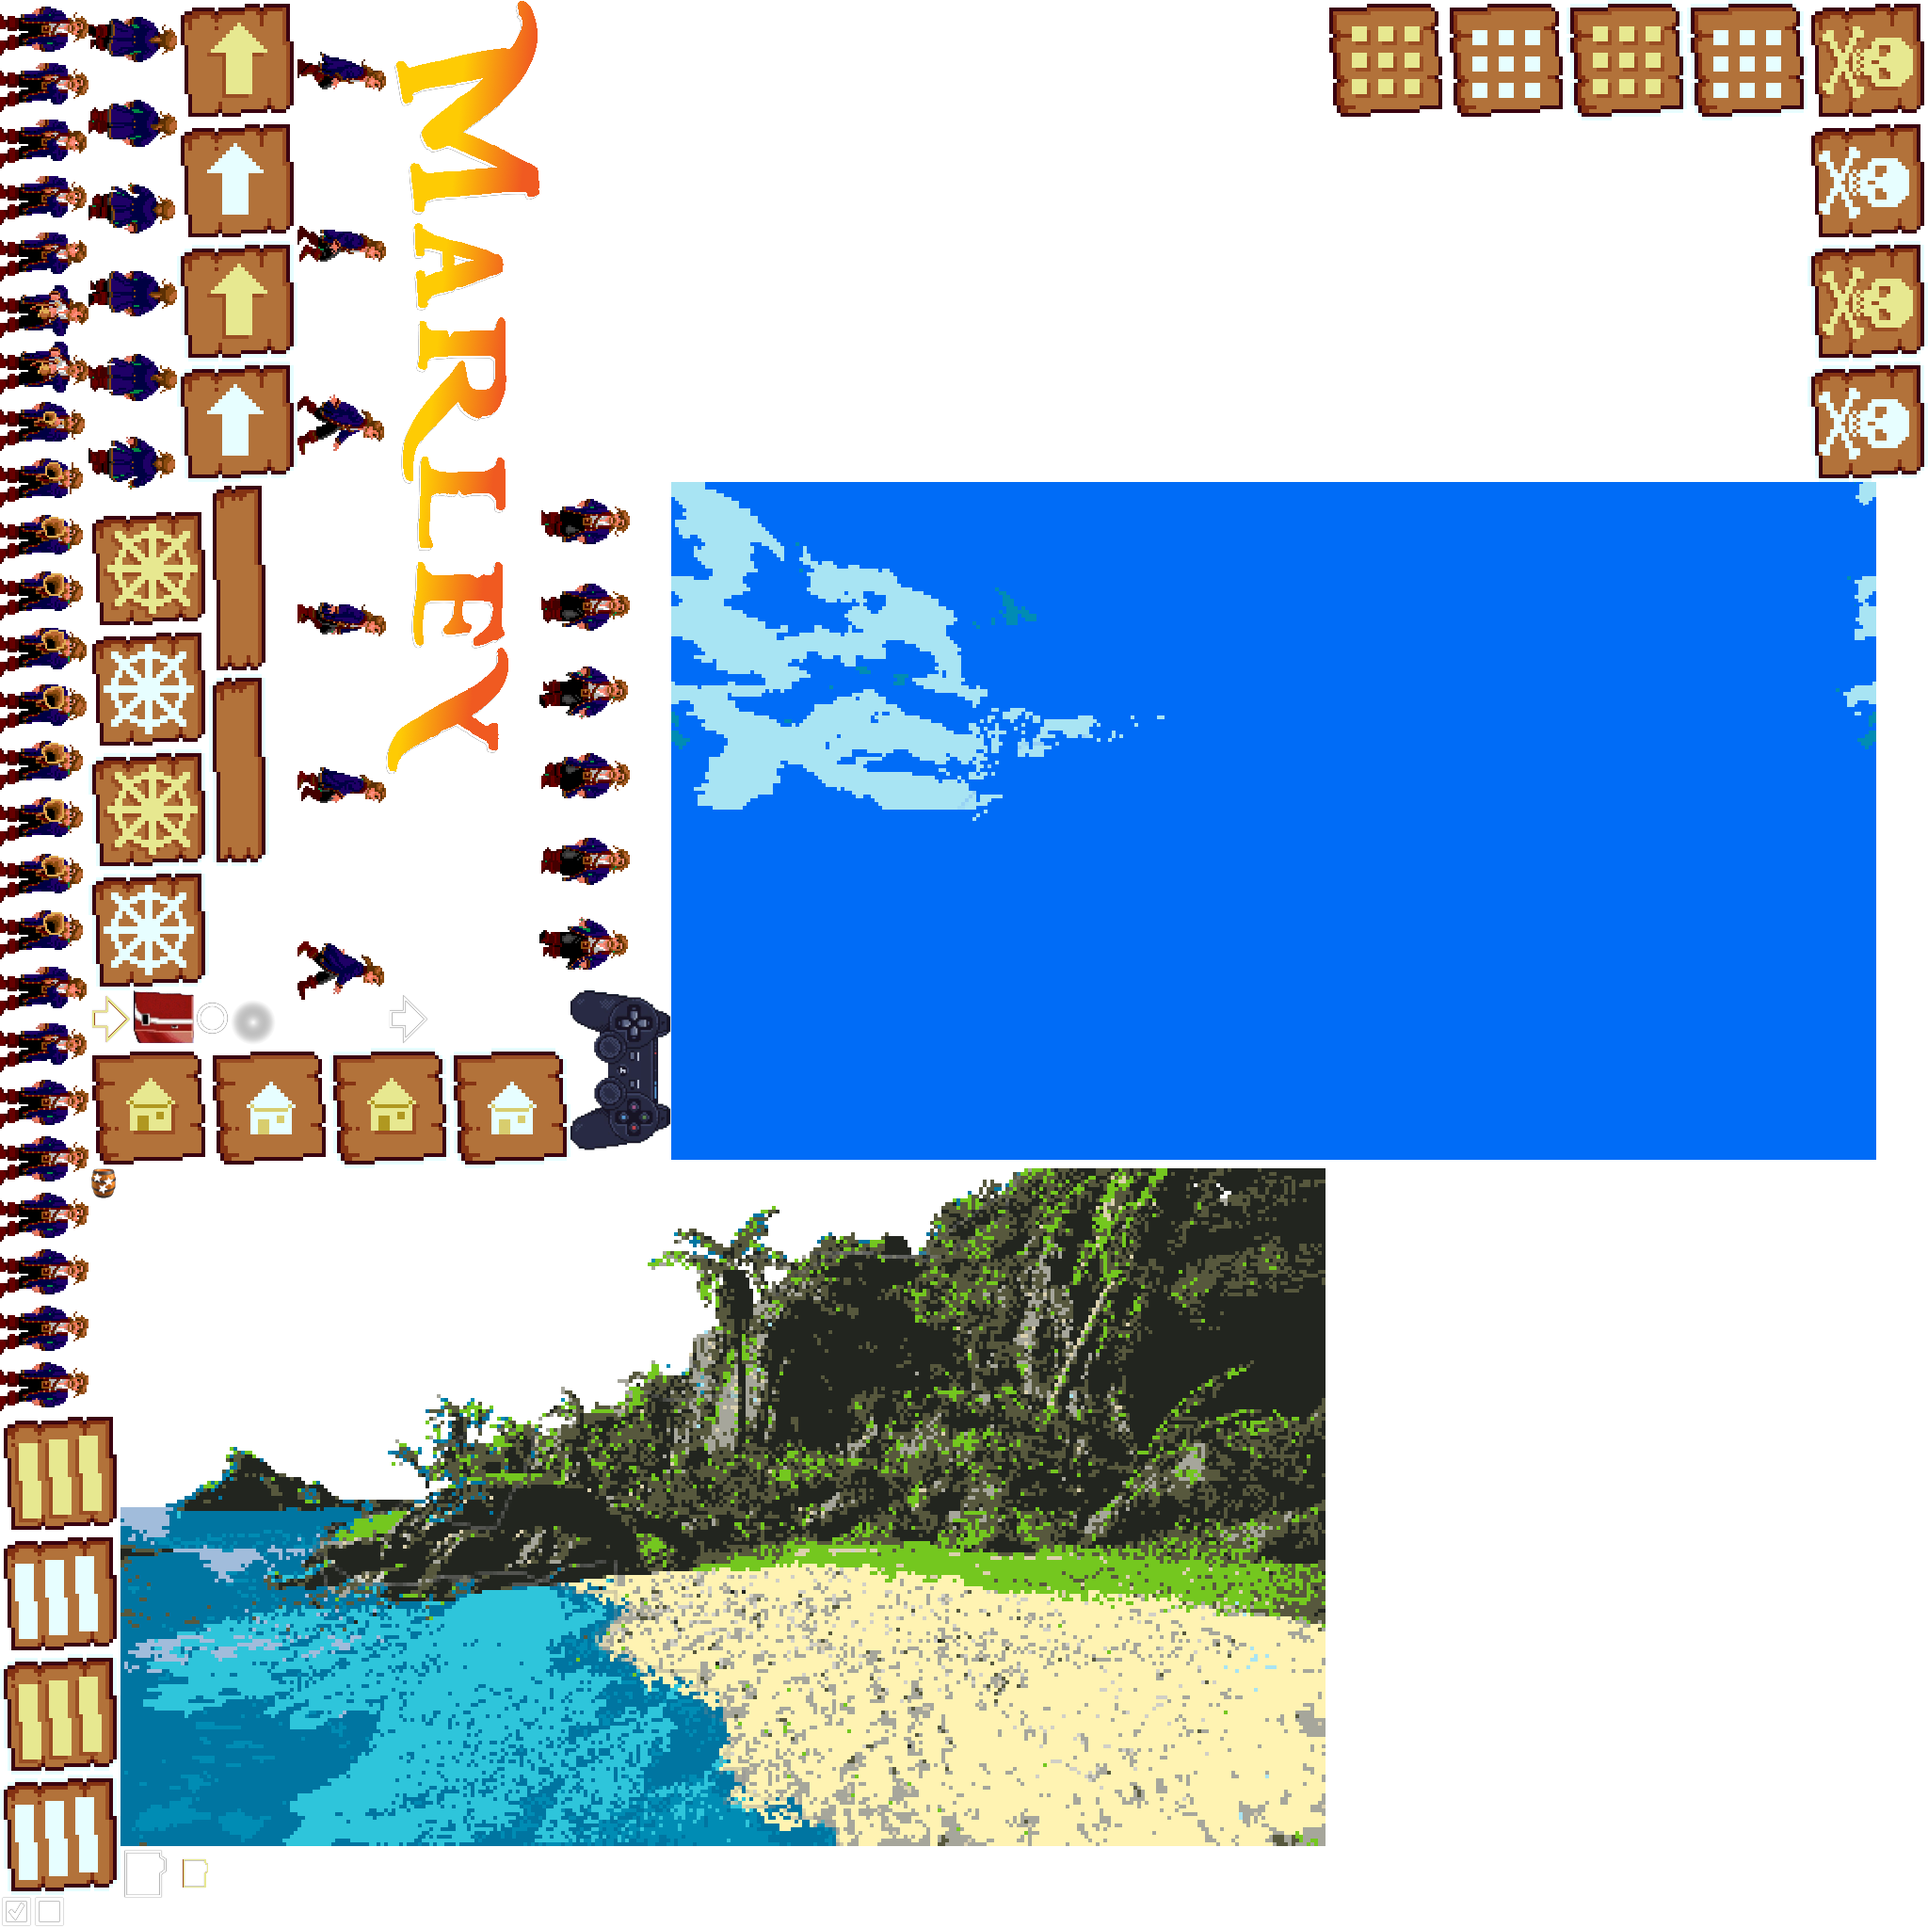
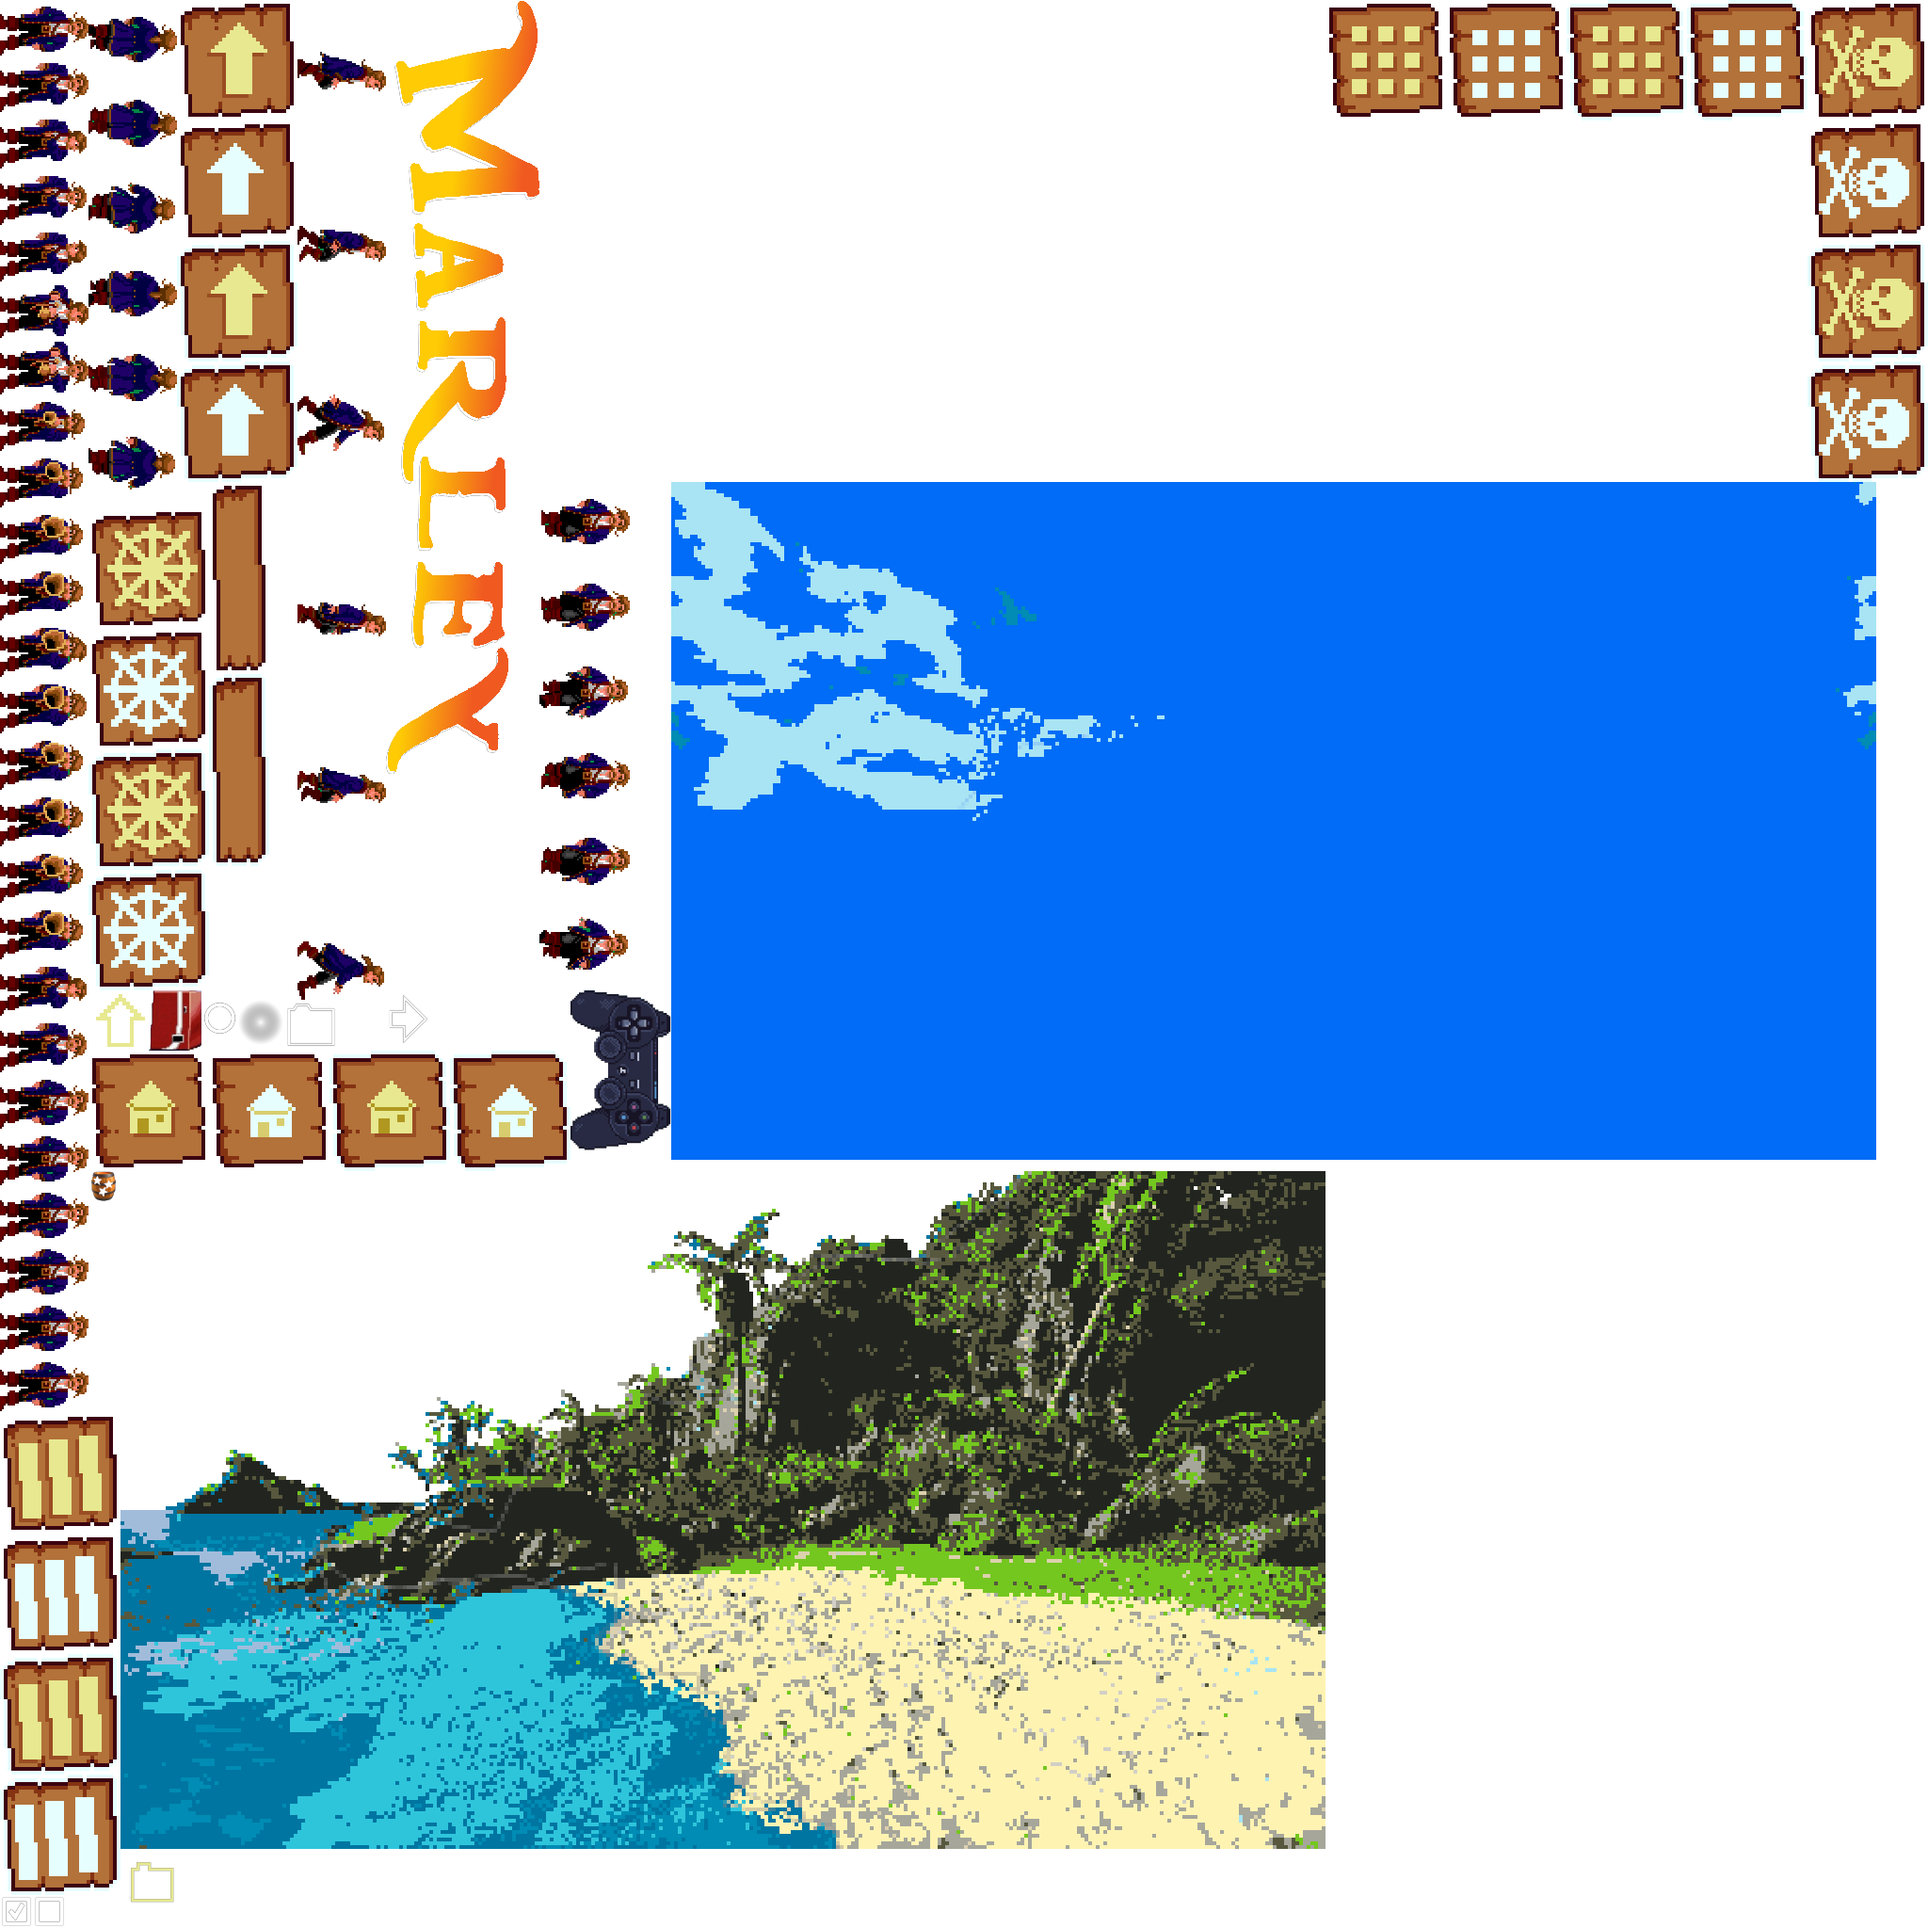
ROM browser added to main screen

diff --git a/resources/atlas/atlas.cpp b/resources/atlas/atlas.cpp
@@ -6,26 +6,26 @@ const AtlasImage images[27] = {
     {0.0458984, 1, 0.0917969, 0.736328, 94, 540, 90, "I_WALKUP" },
     {0.0458984, 0.736328, 0.108398, 0.486328, 128, 512, 90, "I_GEAR_R" },
     {0.0917969, 1, 0.154297, 0.75, 128, 512, 90, "I_BACK_R" },
-    {0.0458984, 0.486328, 0.0693359, 0.456543, 48, 61, 90, "I_UP_DIRECTORY_R" },
+    {0.0458984, 0.486328, 0.0771484, 0.455078, 64, 64, 0, "I_UP_DIRECTORY_R" },
     {0, 0.0170898, 0.0170898, 0, 35, 35, 0, "I_CHECKEDBOX" },
-    {0.0458984, 0.456543, 0.295898, 0.394043, 512, 128, 0, "I_HOME_R" },
+    {0.0458984, 0.455078, 0.295898, 0.392578, 512, 128, 0, "I_HOME_R" },
     {0.154297, 1, 0.200195, 0.481445, 94, 1062, 90, "I_WALK" },
     {0.108398, 0.75, 0.139648, 0.550781, 64, 408, 90, "I_TAB_R" },
-    {0.0625, 0.394043, 0.6875, 0.0424805, 1280, 720, 0, "I_BEACH" },
-    {0.0693359, 0.486328, 0.100586, 0.458984, 64, 56, 90, "I_ENGINE" },
+    {0.0625, 0.392578, 0.6875, 0.0410156, 1280, 720, 0, "I_BEACH" },
+    {0.0771484, 0.486328, 0.104492, 0.455078, 56, 64, 0, "I_ENGINE" },
     {0.200195, 1, 0.279785, 0.597656, 163, 824, 90, "I_MARLEYLOGO" },
-    {0.100586, 0.481445, 0.119629, 0.462402, 39, 39, 0, "I_CIRCLE" },
-    {0.119629, 0.481445, 0.143066, 0.458008, 48, 48, 0, "I_DROP_SHADOW" },
-    {0.0458984, 0.394043, 0.0615234, 0.378418, 32, 32, 0, "I_BARREL" },
+    {0.104492, 0.481445, 0.123535, 0.462402, 39, 39, 0, "I_CIRCLE" },
+    {0.123535, 0.481445, 0.146973, 0.458008, 48, 48, 0, "I_DROP_SHADOW" },
+    {0.0458984, 0.392578, 0.0615234, 0.376953, 32, 32, 0, "I_BARREL" },
     {0.6875, 1, 0.9375, 0.9375, 512, 128, 0, "I_GRID_R" },
-    {0.0625, 0.0424805, 0.0883789, 0.0136719, 53, 59, 90, "I_FOLDER" },
-    {0.0883789, 0.0424805, 0.114258, 0.0136719, 53, 59, 90, "I_FOLDER_R" },
+    {0.146973, 0.481445, 0.175781, 0.455566, 59, 53, 0, "I_FOLDER" },
+    {0.0625, 0.0410156, 0.09375, 0.00976562, 64, 64, 0, "I_FOLDER_R" },
     {0.9375, 1, 1, 0.75, 128, 512, 90, "I_OFF_R" },
     {0.279785, 0.75, 0.32666, 0.486328, 96, 540, 90, "I_WALKDOWN" },
     {0.0170898, 0.0170898, 0.0341797, 0, 35, 35, 0, "I_SQUARE" },
     {0.295898, 0.486328, 0.348145, 0.40332, 107, 170, 90, "I_CONTROLLER" },
     {0.200195, 0.486328, 0.223633, 0.456543, 48, 61, 90, "I_UP_DIRECTORY" },
-    {0.0458984, 0.378418, 0.0615234, 0.362793, 32, 32, 0, "I_STAR" },
+    {0.0458984, 0.376953, 0.0615234, 0.361328, 32, 32, 0, "I_STAR" },
     {0.348145, 0.75, 0.973145, 0.398438, 1280, 720, 0, "I_CLOUDS" },
     };
 const Atlas atlas = {

diff --git a/engine/UI/Common/Render/drawBuffer.cpp b/engine/UI/Common/Render/drawBuffer.cpp
@@ -291,13 +291,27 @@ glm::vec4 SCREEN_DrawBuffer::ConvertColor(Color color)
 
 void SCREEN_DrawBuffer::DrawImageStretch(Sprite* atlas_image, float x1, float y1, float x2, float y2, Color color)
 {
-    glm::mat4 position = glm::mat4
-    (
-        x1 - m_HalfContextWidth, m_HalfContextHeight - y1, 1.0f, 1.0f,
-        x2 - m_HalfContextWidth, m_HalfContextHeight - y1, 1.0f, 1.0f,
-        x2 - m_HalfContextWidth, m_HalfContextHeight - y2, 1.0f, 1.0f,
-        x1 - m_HalfContextWidth, m_HalfContextHeight - y2, 1.0f, 1.0f
-    );
+    glm::mat4 position;
+    if (atlas_image->m_Rotated)
+    {
+        position = glm::mat4
+        (
+            x1 - m_HalfContextWidth, m_HalfContextHeight - y2, 1.0f, 1.0f,
+            x1 - m_HalfContextWidth, m_HalfContextHeight - y1, 1.0f, 1.0f,
+            x2 - m_HalfContextWidth, m_HalfContextHeight - y1, 1.0f, 1.0f,
+            x2 - m_HalfContextWidth, m_HalfContextHeight - y2, 1.0f, 1.0f
+        );
+    }
+    else
+    {
+        position = glm::mat4
+        (
+            x1 - m_HalfContextWidth, m_HalfContextHeight - y1, 1.0f, 1.0f,
+            x2 - m_HalfContextWidth, m_HalfContextHeight - y1, 1.0f, 1.0f,
+            x2 - m_HalfContextWidth, m_HalfContextHeight - y2, 1.0f, 1.0f,
+            x1 - m_HalfContextWidth, m_HalfContextHeight - y2, 1.0f, 1.0f
+        );
+    }
     m_Renderer->Draw(atlas_image, position, -0.5f, ConvertColor(color));
 }
 

diff --git a/application/UI/browser/ROMbrowser.cpp b/application/UI/browser/ROMbrowser.cpp
@@ -29,8 +29,8 @@
 #include "drawBuffer.h"
 #include "i18n.h"
 
-ROMBrowser::ROMBrowser(std::string path, std::string lastText, std::string lastLink, SCREEN_UI::LayoutParams *layoutParams)
-    : LinearLayout(SCREEN_UI::ORIENT_VERTICAL, layoutParams), path_(path), lastText_(lastText), lastLink_(lastLink)
+ROMBrowser::ROMBrowser(std::string path, SCREEN_UI::TextView* gamesPathView, SCREEN_UI::LayoutParams *layoutParams)
+    : LinearLayout(SCREEN_UI::ORIENT_VERTICAL, layoutParams), path_(path), m_GamesPathView(gamesPathView)
 {
     using namespace SCREEN_UI;
     Refresh();
@@ -131,7 +131,7 @@ void ROMBrowser::Refresh()
     if (!listingPending_)
     {
         m_LastGamePath = path_.GetPath();
-        //gamesPathView->SetText(path_.GetFriendlyPath().c_str());
+        m_GamesPathView->SetText(path_.GetFriendlyPath().c_str());
 
         std::list<std::string> tmpList;
         std::list<std::string> toBeRemoved;

diff --git a/application/UI/browser/ROMbrowser.h b/application/UI/browser/ROMbrowser.h
@@ -31,7 +31,7 @@
 class ROMBrowser : public SCREEN_UI::LinearLayout
 {
 public:
-    ROMBrowser(std::string path, std::string lastText, std::string lastLink, SCREEN_UI::LayoutParams *layoutParams = nullptr);
+    ROMBrowser(std::string path, SCREEN_UI::TextView* gamesPathView, SCREEN_UI::LayoutParams *layoutParams = nullptr);
     ~ROMBrowser();
     SCREEN_UI::Event OnChoice;
     SCREEN_UI::Event OnHoldChoice;
@@ -59,9 +59,8 @@ private:
     SCREEN_UI::EventReturn HomeClick(SCREEN_UI::EventParams &e);
 
     SCREEN_UI::ViewGroup *gameList_ = nullptr;
+    SCREEN_UI::TextView* m_GamesPathView;
     SCREEN_PathBrowser path_;
-    std::string lastText_;
-    std::string lastLink_;
     std::string focusGamePath_;
     bool listingPending_ = false;
     float lastScale_ = 1.0f;

diff --git a/application/UI/mainScreen.cpp b/application/UI/mainScreen.cpp
@@ -205,8 +205,7 @@ void MainScreen::CreateViews()
     m_ROMbrowser = new ROMBrowser
     (
         m_LastGamePath,
-        ma->T("Use the Start button to confirm"), 
-        "https://github.com/beaumanvienna/marley",
+        m_GamesPathView, 
         new LinearLayoutParams(fileBrowserWidth, WRAP_CONTENT)
     );
     m_ROMbrowser->SetTag("m_ROMbrowser");
@@ -255,6 +254,12 @@ void MainScreen::update()
 
 SCREEN_UI::EventReturn MainScreen::HomeClick(SCREEN_UI::EventParams &e) 
 {
+    #ifdef WINDOWS
+      m_LastGamePath = ".";
+    #else
+      m_LastGamePath = getenv("HOME");
+    #endif
+    m_ROMbrowser->SetPath(m_LastGamePath);
     return SCREEN_UI::EVENT_DONE;
 }
 

diff --git a/application/UI/browser/ROMbutton.cpp b/application/UI/browser/ROMbutton.cpp
@@ -63,7 +63,7 @@ void ROMButton::Draw(SCREEN_UIContext &dc)
             dc.PushScissor(bounds_);
             scissor = true;
         }
-        dc.Draw()->DrawImage(image, bounds_.x + 72, bounds_.centerY(), 0.88f, 0xFFFFFFFF, ALIGN_CENTER);
+        dc.Draw()->DrawImage(image, bounds_.x + 72, bounds_.centerY(), 1.0f, 0xFFFFFFFF, ALIGN_CENTER);
         if (gTheme == THEME_RETRO)
         {
             dc.DrawText(text.c_str(), bounds_.x + 152, bounds_.centerY()+2, RETRO_COLOR_FONT_BACKGROUND, ALIGN_VCENTER);

diff --git a/engine/spritesheet/sprite.cpp b/engine/spritesheet/sprite.cpp
@@ -23,7 +23,6 @@
 #include "engine.h"
 #include "sprite.h"
 #include "matrix.h"
-//#include "gtc/matrix_transform.hpp"
 
 Sprite::Sprite(
        const float pos1X, const float pos1Y, 
